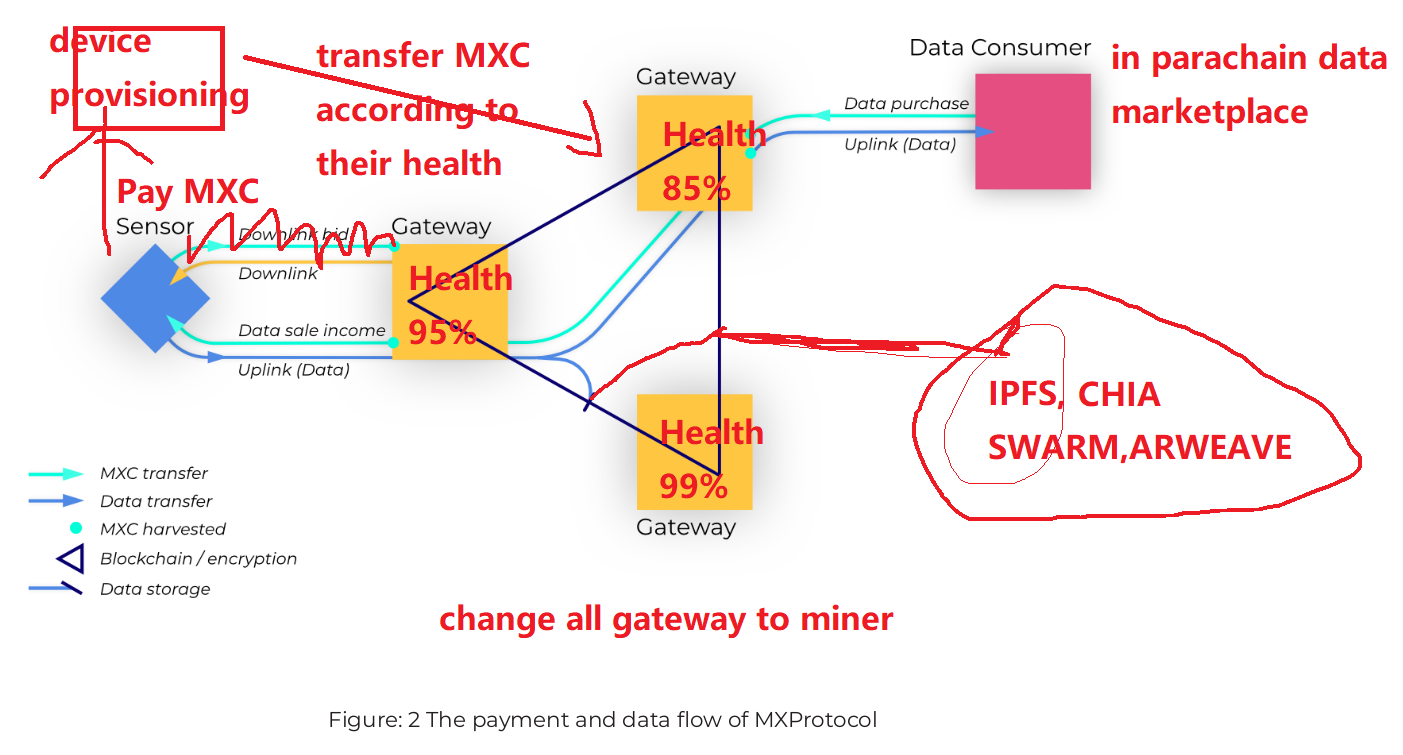
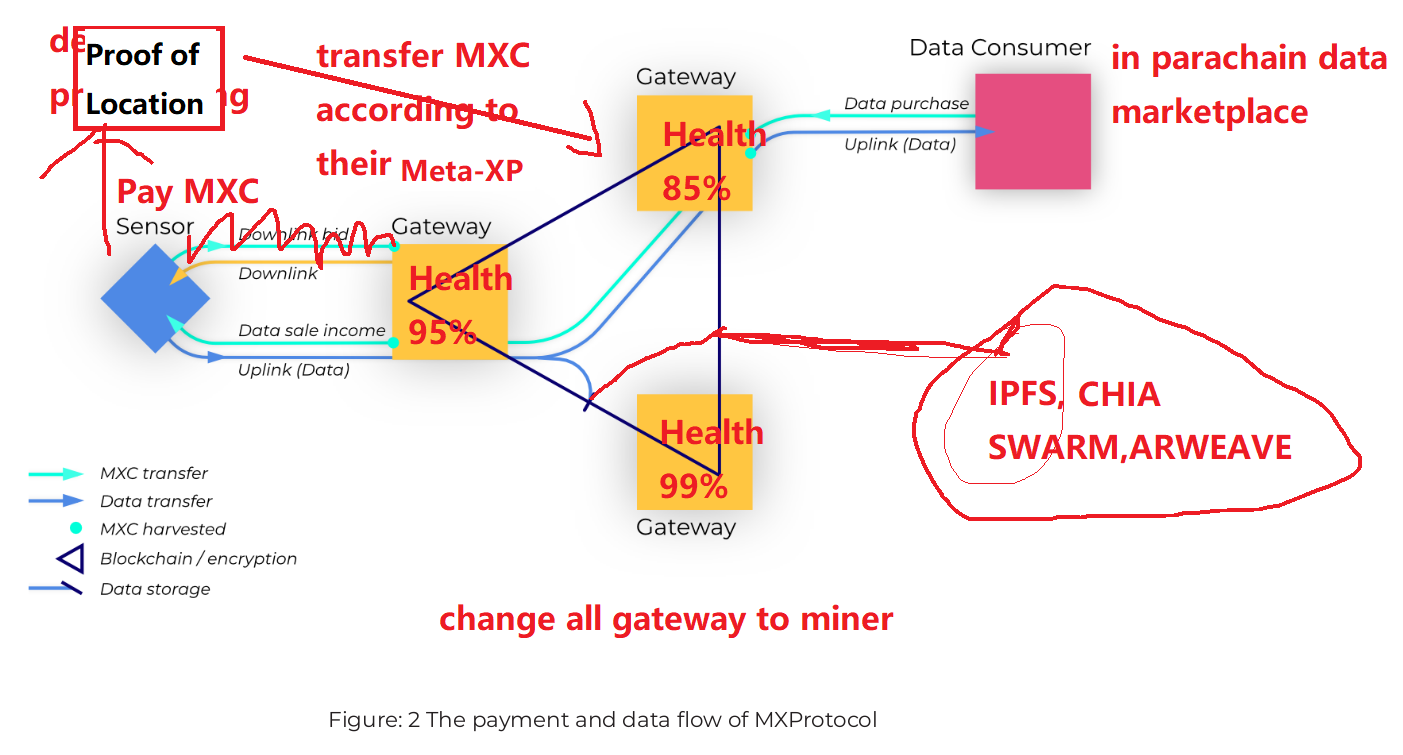
fig2 change

Changed region(s): [[0.0613, 0.0305, 0.1532, 0.1523], [0.2758, 0.1828, 0.3678, 0.2437]]

diff --git a/docs/whitepapers/mxprotocol.md b/docs/whitepapers/mxprotocol.md
@@ -287,7 +287,7 @@ certificate hasn’t been sold/reproduced and assigned to potentially multiple p
 
 ### 3.3 Data bloom
 
-MXC is a blockchain-based decentralized AI and Blokchain platform designed to revolutionize three core
+MXC is a blockchain-based decentralized AI and Blokchain platform with both narrow band and broad ban is designed to revolutionize three core
 functions based around the Web3 and Metaverse industry: Data collection, Data transaction, Data Visualization.
 
 #### 3.3.1 MXC-assisted parking
@@ -358,7 +358,7 @@ assets, profiting from the blockchain economy.
 ## 4. MXProtocol stack
 
 MXProtocol infrastructure consists of both IoT NFT and Edge AI devices, Miner and cloud.
-IoT NFT and Edge AI devices collect data from “things,” and send to the cloud via the Miner.
+IoT NFT and Edge AI devices collect data from “things,” and send to the cloud via the LPWAN and Satellite-LEO Miner.
 This is uniquely designed to specifically be a decentralized solution allowing for everyone to
 suit their/the market’s needs. The usability of the hardware has been specifically designed
 as a “plug and play” solution, making installation simple without the need for a professional
@@ -366,11 +366,11 @@ configuration. It is designed to be easy to set up and easy to share the data ec
 
 As the flow in [Figure 2](#fig2) demonstrates, LPWAN Miners connect to each other to form
 either a decentralized mesh network as a collective cloud or the Internet. The IoT NFT and Edge AI devices
-communicate with Miners using LPWAN technology for bi-directional communication.
+communicate with Miners using LPWAN or Satellite-LEO technology for bi-directional communication.
 Notably, the IoT NFT and Edge AI devices are not purely limited to few product. In fact, any LoRaWAN compatible sensors are able to connect to the LPWAN network and
-can start sending and receiving messages through our device provisioning design.
+can start sending and receiving messages through our Proof of Location portal by device provisioning design.
 
-Then device provisioning will transfer the MXC from the device payments and distribute the rewards to miners according to their health.
+Then device provisioning will transfer the MXC from the device payments and distribute the rewards to miners according to their Meta-XP, how long they stay on the network and how well they maintain the devices.
 
 <a name="fig2"> </a>
 <figure>
